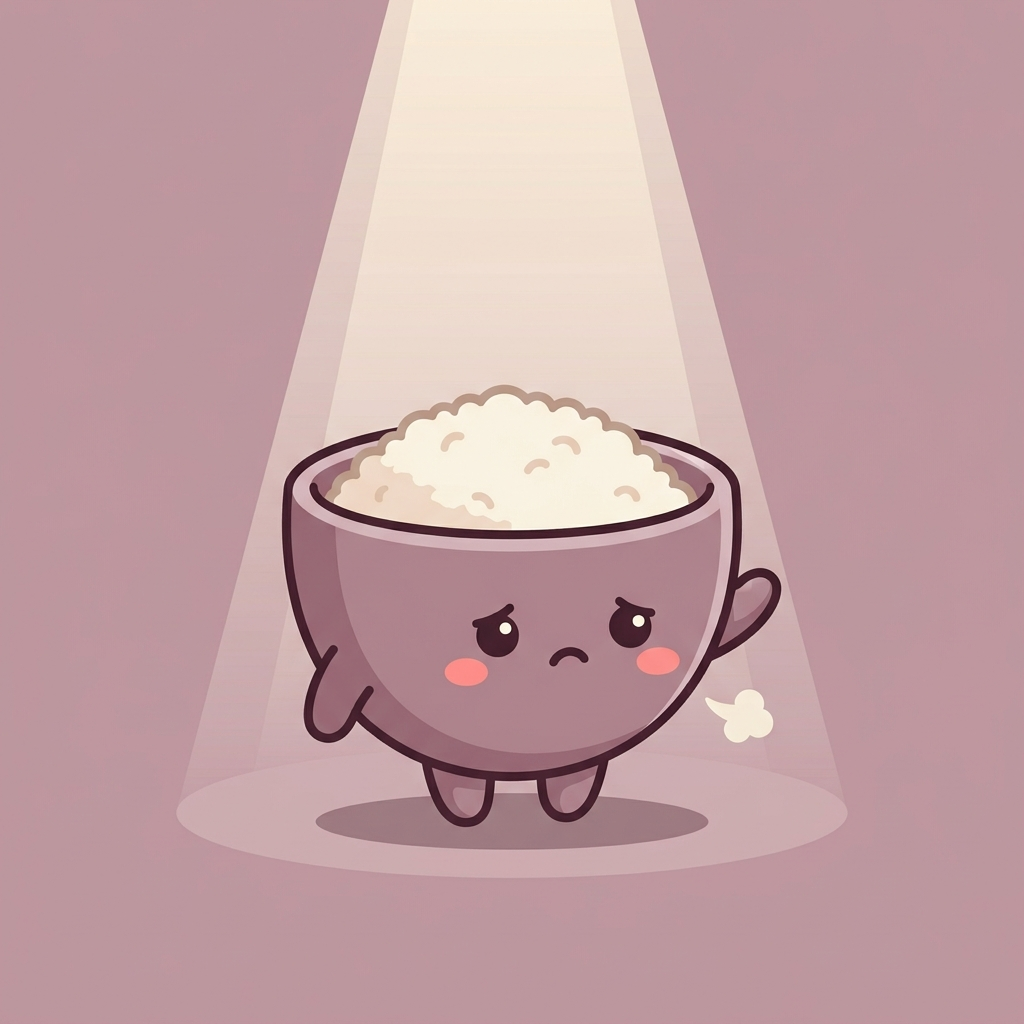
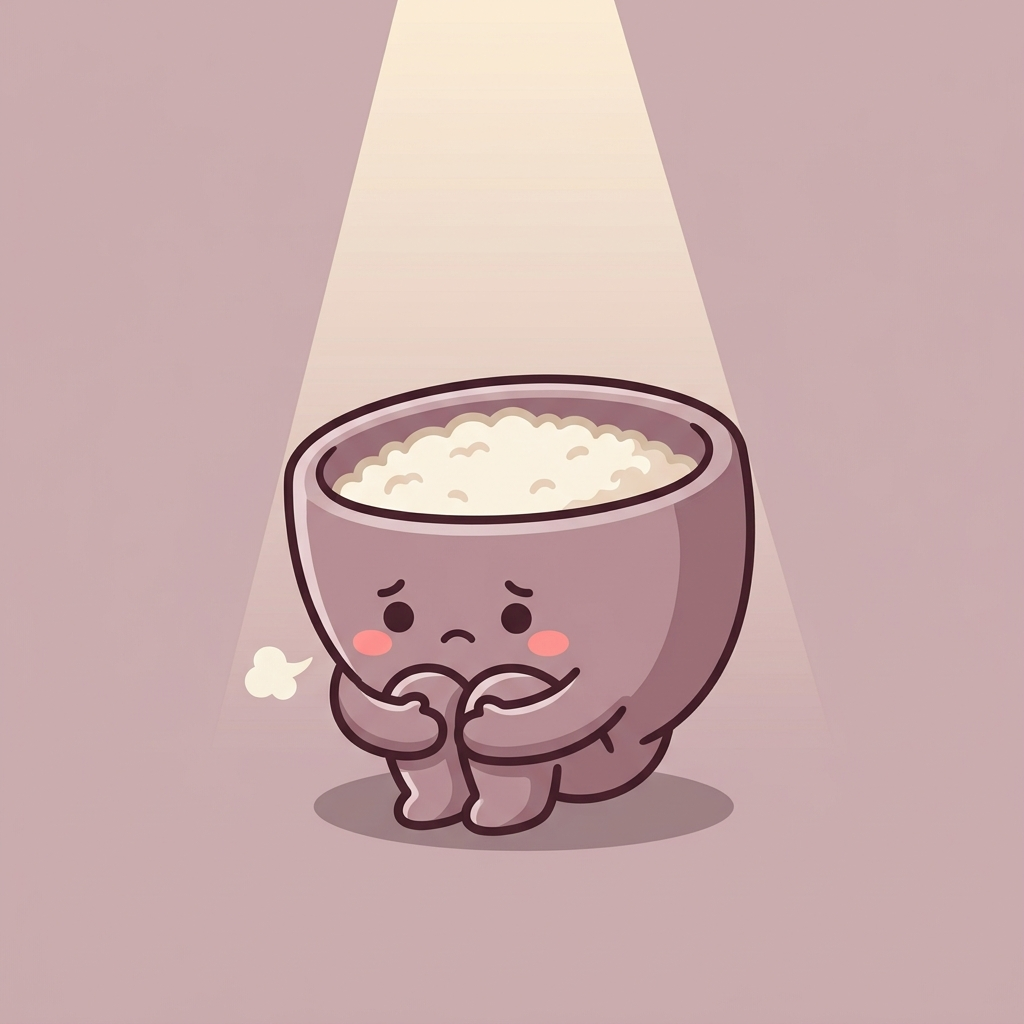
auto-commit for 231653b5-0e88-4fa1-844c-bd2cdee023a6

diff --git a/frontend/src/constants/emotions.ts b/frontend/src/constants/emotions.ts
@@ -1,4 +1,4 @@
-export type EmotionCategory = 'warm' | 'sad' | 'nervous' | 'wound' | 'anger';
+export type EmotionCategory = 'warm' | 'sad' | 'nervous' | 'wound' | 'anger' | 'unspoken';
 
 export type Emotion = {
   key: string;
@@ -21,6 +21,7 @@ export const EMOTION_CATEGORIES: {
   { key: 'nervous', label: '緊張 · 不安',     short: '緊張',       color: '#FFD6A5' },
   { key: 'wound',   label: '自我懷疑 · 被傷', short: '自我懷疑',   color: '#D5AAFF' },
   { key: 'anger',   label: '憤怒 · 痛楚',     short: '憤怒',       color: '#FFAAA5' },
+  { key: 'unspoken',label: '講唔出 · 一言難盡', short: '講唔出',    color: '#E8D5F0' },
 ];
 
 // Static requires so Metro can bundle the images.
@@ -41,6 +42,7 @@ export const EMOTION_IMAGES: Record<string, any> = {
   restless: require('../../assets/emotions/restless.png'),
   anxious: require('../../assets/emotions/anxious.png'),
   scared: require('../../assets/emotions/scared.png'),
+  uneasy: require('../../assets/emotions/uneasy.png'),
   unmotivated: require('../../assets/emotions/unmotivated.png'),
   worried: require('../../assets/emotions/worried.png'),
   overwhelmed: require('../../assets/emotions/overwhelmed.png'),
@@ -68,6 +70,10 @@ export const EMOTION_IMAGES: Record<string, any> = {
   furious: require('../../assets/emotions/furious.png'),
   'in-pain': require('../../assets/emotions/in-pain.png'),
   'in-agony': require('../../assets/emotions/in-agony.png'),
+  foggy: require('../../assets/emotions/foggy.png'),
+  questioning: require('../../assets/emotions/questioning.png'),
+  blank: require('../../assets/emotions/blank.png'),
+  indescribable: require('../../assets/emotions/indescribable.png'),
 };
 
 export const EMOTIONS: Emotion[] = [
@@ -96,6 +102,7 @@ export const EMOTIONS: Emotion[] = [
   { key: 'irritable', label: '煩躁', description: '個火開始上湧', color: '#FF8264', category: 'nervous', image: EMOTION_IMAGES.irritable },
   { key: 'anxious', label: '焦慮', description: '心入面亂到停唔到', color: '#D48DB4', category: 'nervous', image: EMOTION_IMAGES.anxious },
   { key: 'scared', label: '驚', description: '心跳好快 · 好唔安', color: '#9A93C0', category: 'nervous', image: EMOTION_IMAGES.scared },
+  { key: 'uneasy', label: '不安', description: '心裡總覺得有啲怪怪嘅', color: '#B0A08B', category: 'nervous', image: EMOTION_IMAGES.uneasy },
   { key: 'worried', label: '擔心', description: '諗嘢停唔到', color: '#D5DBA8', category: 'nervous', image: EMOTION_IMAGES.worried },
   { key: 'overwhelmed', label: '透唔到氣', description: '好多嘢一齊嚟', color: '#C4756E', category: 'nervous', image: EMOTION_IMAGES.overwhelmed },
   { key: 'trapped', label: '被困', description: '好似逃唔到出去', color: '#6BA8BF', category: 'nervous', image: EMOTION_IMAGES.trapped },
@@ -123,6 +130,12 @@ export const EMOTIONS: Emotion[] = [
   { key: 'furious', label: '激嬲', description: '把火燒到頂', color: '#D34848', category: 'anger', image: EMOTION_IMAGES.furious },
   { key: 'in-pain', label: '痛苦', description: '心 / 身好痛', color: '#B36663', category: 'anger', image: EMOTION_IMAGES['in-pain'] },
   { key: 'in-agony', label: '煎熬', description: '痛得好難捱', color: '#786095', category: 'anger', image: EMOTION_IMAGES['in-agony'] },
+
+  // Unspoken / 講唔出 — fallback when nothing else fits
+  { key: 'indescribable', label: '一言難盡', description: '好多感覺 · 講唔清楚', color: '#D9B8E8', category: 'unspoken', image: EMOTION_IMAGES.indescribable },
+  { key: 'foggy', label: '濛查查', description: '腦入面一片模糊', color: '#B8C1CE', category: 'unspoken', image: EMOTION_IMAGES.foggy },
+  { key: 'questioning', label: '唔知乜感覺', description: '有嘢喺度 · 但講唔出', color: '#E8CE8A', category: 'unspoken', image: EMOTION_IMAGES.questioning },
+  { key: 'blank', label: '一片空白', description: '腦入面咩都冇', color: '#CFC9BC', category: 'unspoken', image: EMOTION_IMAGES.blank },
 ];
 
 export const EMOTION_BY_KEY: Record<string, Emotion> = EMOTIONS.reduce(

diff --git a/backend/generate_emotion_icons.py b/backend/generate_emotion_icons.py
@@ -94,9 +94,9 @@ EMOTIONS = [
      RICE_HALF,
      "with a small downturned mouth and one big shiny teardrop under one eye; the heart-shaped bowl has an obvious dark crack line across it",
      "powder blue"),
-    # lonely — a single lonely bowl with a soft spotlight beam from above
+    # lonely — crouching under a spotlight beam from above (踎喺度嘅寂寞)
     ("lonely",       "dusty mauve",                     RICE_HALF,
-     "the bowl mascot sitting alone with a small quiet lonely expression, downcast eyes looking sideways, tiny sad frown mouth, one tiny stubby hand raised as if reaching out into empty space; a small pale sigh puff floating beside its face; a soft translucent SPOTLIGHT BEAM of pale warm light shining down onto the mascot from directly above (a subtle cone-shaped light beam like a stage spotlight, wider at the top narrower at the bottom around the bowl, semi-transparent white/cream color, edges soft not hard); the light emphasizes how the mascot is alone in the spotlight; NO table, NO chairs, NO room, NO furniture — just the bowl mascot under the spotlight beam on the plain pastel background",
+     "the bowl mascot CROUCHING / squatting DOWN low to the ground, sitting curled up on itself in a small huddled posture with its short stubby legs bent underneath it (like someone squatting knees-close-to-chest); BOTH tiny stubby arms wrapped around its own body/knees in a self-hug; small quiet lonely expression, downcast eyes looking at the ground, tiny sad frown mouth; a small pale sigh puff floating beside its face; a soft translucent SPOTLIGHT BEAM of pale warm light shining down onto the mascot from directly above (a subtle cone-shaped stage-light beam, wider at top narrower at bottom, semi-transparent cream color, soft edges); the light emphasizes how the mascot is alone crouching in the spotlight; NO table, NO chairs, NO room, NO furniture — just the crouching bowl mascot under the spotlight on the plain pastel background",
      "dusty mauve"),
     # unmotivated — the original 'sigh puff' bowl now describes 冇心機
     ("unmotivated",  "muted sage grey-green",           RICE_HALF,
@@ -129,6 +129,10 @@ EMOTIONS = [
     ("anxious",      "pale butter yellow",              RICE_FULL,
      "with an anxious restless expression: wide alert worried eyes with visible strain lines, mouth in a small tight frown, ONE tiny stubby hand raised chewing/biting on its own arm (a nail-biting gesture); AROUND ITS HEAD a swirl of tiny worry symbols floating in a chaotic circle: two tiny question marks, one tiny exclamation mark, two tiny spiral swirls, a small wavy squiggle line — all clearly visible spinning around the bowl in a mental-storm pattern",
      "buttermilk yellow"),
+    # NEW: uneasy — chest-tight, eyes darting warily (不安)
+    ("uneasy",       "muted khaki",                     RICE_FULL,
+     "with an uneasy uncomfortable expression: wide alert eyes glancing SIDEWAYS to one side (darting warily as if watching for something bad to happen), small tense zigzag squiggle mouth (an uncertain wavy line, not a smile not a frown), one tiny stubby hand raised to its own chest area clutching lightly (chest tightness gesture); a couple of small subtle pulse-wave / heartbeat squiggle marks floating near its chest area, one small sweat drop on its cheek; overall a subtle unsettled feeling, not intense panic — just the quiet sense that something feels off",
+     "muted khaki"),
     # scared — the original 'sweat + squiggle' bowl now describes 驚
     ("scared",       "pale butter yellow",              RICE_FULL,
      "with worried curved eyebrows, small dot eyes looking sideways, one big sweat drop on the side of the bowl, a couple of tiny nervous squiggle marks around the head",
@@ -225,6 +229,25 @@ EMOTIONS = [
      "with a small pile of rice being fried inside the pan (not filled like a bowl)",
      "the frying-pan mascot has two round dot eyes, small blush cheeks, and a suffering tightly shut eyes and open trembling silent-scream mouth; several bright orange and yellow FIRE flames dancing directly UNDERNEATH the pan; a couple of tiny sweat drops around its head",
      "dusty plum"),
+
+    # ---- Unspoken / 講唔出 (fallback bucket) ----
+    # foggy — 濛查查, soft misty fog wrapping the bowl
+    ("foggy",        "soft pale dove grey-blue",        RICE_HALF,
+     "half of the bowl (especially the upper head area with the eyes) is gently WRAPPED and PARTIALLY OBSCURED by a soft translucent puffy white MIST / FOG CLOUD swirling around it (like a low-lying fog bank hugging the mascot); through the mist we can only faintly see two vague blurry dot eyes and a small confused parted-lip o-mouth; both tiny stubby arms hang slightly outward as if lost inside the fog; a few tiny extra fog wisps drifting off to the sides; overall dreamy hazy dazed vibe",
+     "pale misty grey"),
+    # questioning — 問號, big question mark, curious head-tilt
+    ("questioning",  "soft warm cream beige",           RICE_FULL,
+     "the whole bowl clearly TILTED to one side (about 20 degrees) in a curious head-tilt pose; both eyes wide open in a genuinely curious puzzled look, small o-shaped mouth slightly open, both tiny stubby hands raised palms-up in a 'huh?' shrug gesture; DIRECTLY ABOVE its head floats ONE VERY LARGE bold black cartoon question mark '?' about the same size as the bowl itself (clearly the dominant symbol), plus two smaller thinner question marks floating to either side for extra emphasis",
+     "warm buttercream"),
+    # blank — 一片空白, an ELECTRIC RICE COOKER with the lid open, completely empty inside
+    ("blank",        "white and cream electric RICE COOKER appliance (NOT a ceramic bowl this time — a chubby rounded rice cooker with a small square digital control panel with two tiny buttons on the front, a short black electric cord trailing off to one side, and a metal handle on top)",
+     "with the DOMED COOKER LID FULLY OPEN / lifted up and tilted back behind the cooker (hinged open like an opened clam shell revealing the inside), and the inner pot COMPLETELY EMPTY — just a shiny empty metallic silver inner bowl with absolutely NO rice, NO grains, nothing at all inside (totally hollow)",
+     "the rice cooker mascot has two small round black dot eyes and small pink blush cheeks on its front body, a completely blank expressionless straight-line closed mouth, both tiny stubby arms hanging limp at its sides, two little stubby legs; a small pale wisp of steam or a tiny sigh puff drifting up from the empty inside of the cooker to emphasize its emptiness; a soft drop shadow beneath",
+     "warm ivory white"),
+    # indescribable — 一言難盡, rainbow aura cloak wrapping the bowl
+    ("indescribable","soft creamy off-white",           RICE_FULL,
+     "the whole bowl is gently WRAPPED in a soft flowing translucent RAINBOW CLOAK / AURA made of layered wispy pastel color ribbons (pastel pink, peach, buttery yellow, mint, sky blue, lavender) swirling around the bowl like a soft aurora shawl draped over its shoulders and flowing behind it; the mascot has a soft complicated bittersweet expression — a small closed-eye gentle smile with one tiny sparkly tear dot at the corner of one eye (mix of happy and sad); a few tiny multi-color sparkles and one small pastel five-point star floating around the aurora; overall dreamy poetic 'many feelings at once' vibe",
+     "pale cotton candy pink"),
 ]
 
 
